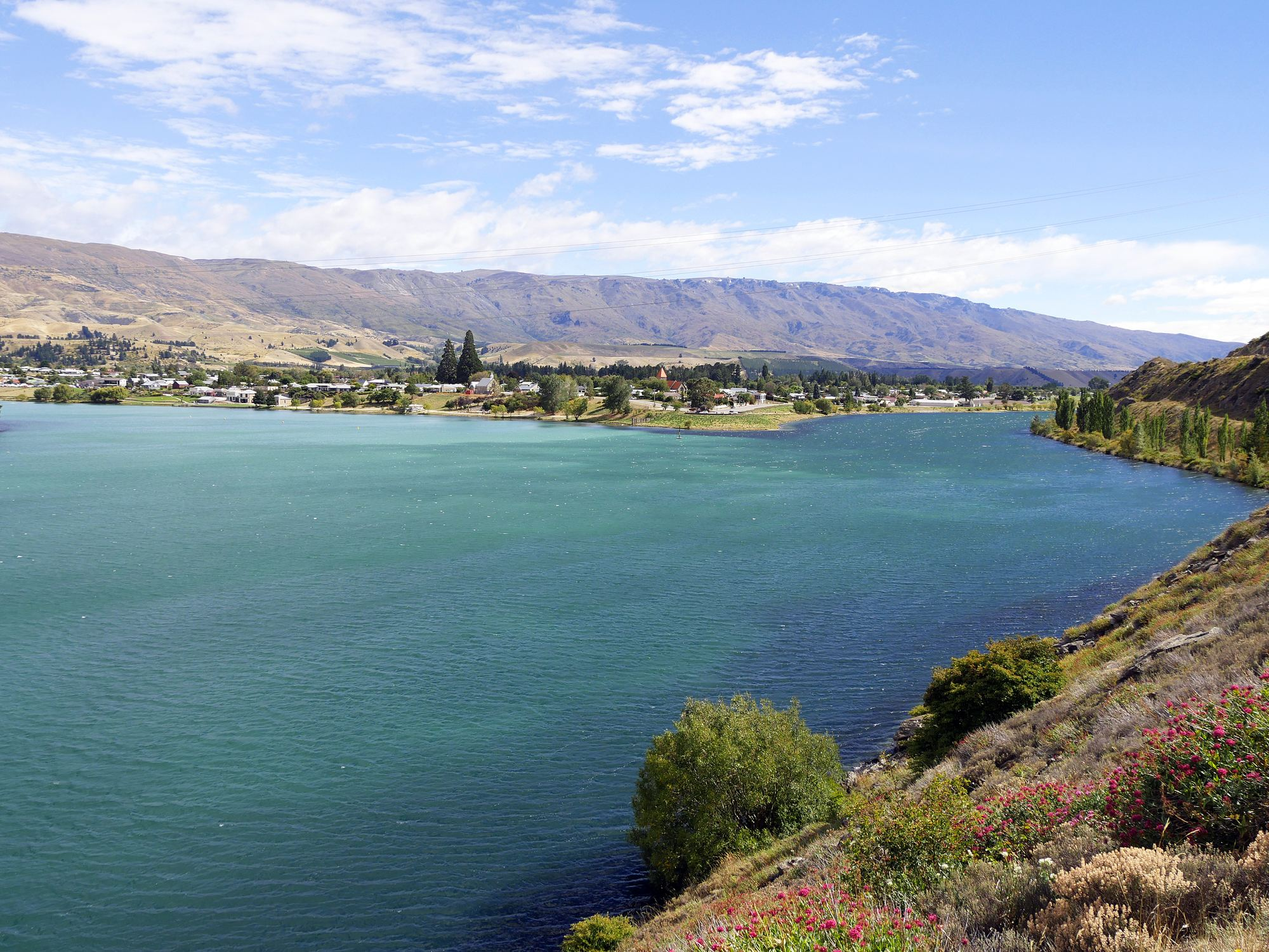
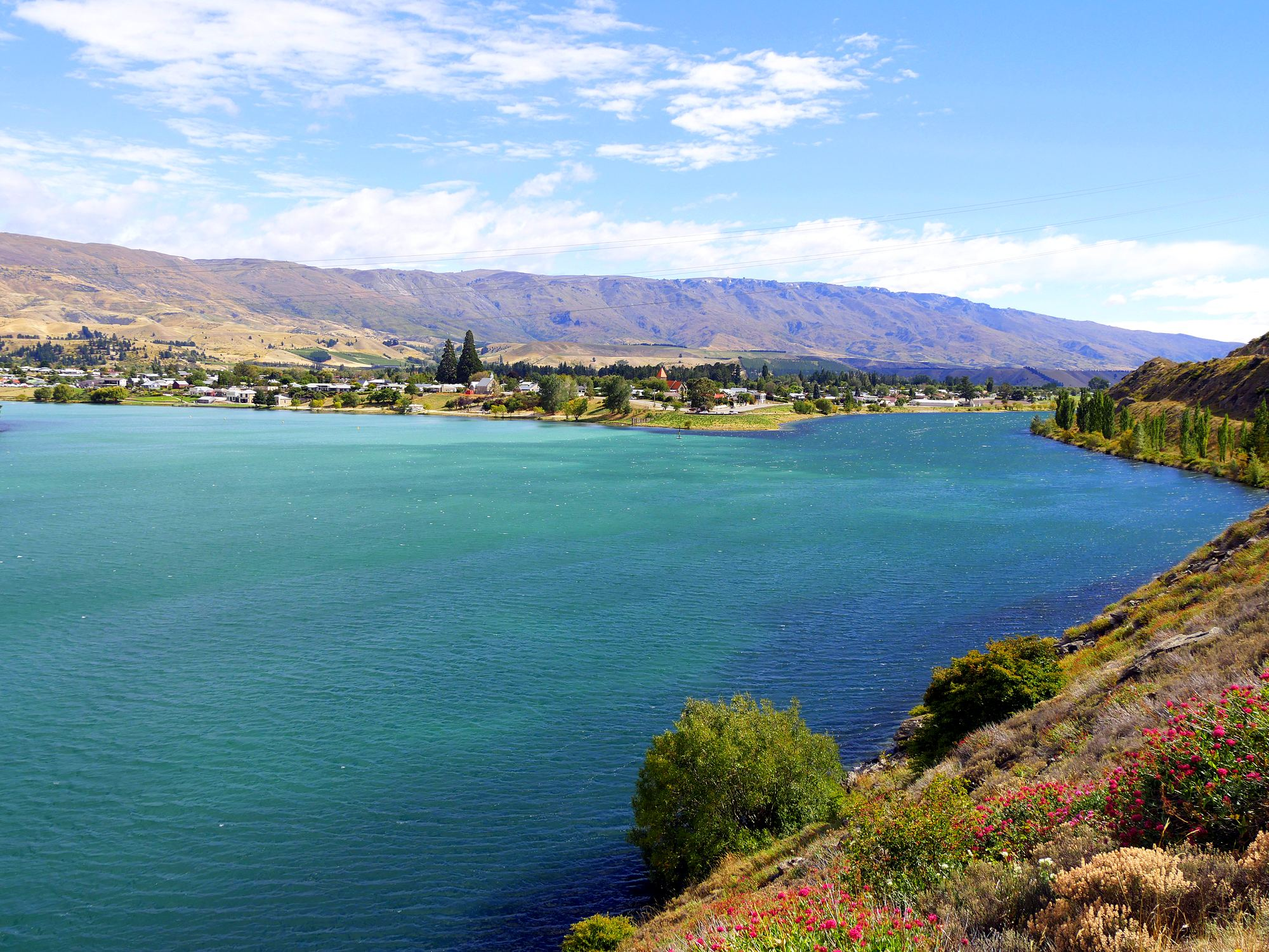
Boost hero photo colour and lighten its tint
- hero.jpg re-made from the original with +40% saturation, slight contrast
- Lighter overlay so the water's blue-green shows through
- Soft text shadow keeps the heading readable
- Credit notes the photo is colour adjusted (licence requires noting changes)

Claude-Session: https://claude.ai/code/session_01LSiUh8B7aKZp6XJuopUGAn

diff --git a/index.html b/index.html
@@ -66,13 +66,14 @@
       color: var(--white);
       background-color: var(--river-deep);
       background-image:
-        linear-gradient(180deg, rgba(18,59,62,.55) 0%, rgba(18,59,62,.15) 35%, rgba(18,59,62,.85) 100%),
+        linear-gradient(180deg, rgba(10,30,32,.5) 0%, rgba(10,30,32,.1) 28%, rgba(10,30,32,.3) 60%, rgba(10,30,32,.7) 100%), linear-gradient(90deg, rgba(10,30,32,.35) 0%, rgba(10,30,32,0) 60%),
         url("images/hero.jpg");
       background-size: cover;
       background-position: center;
       padding: 140px 0 72px;
     }
     .hero .wrap { width: 100%; }
+    .hero h1, .hero .lede { text-shadow: 0 1px 2px rgba(0,0,0,.35), 0 2px 18px rgba(0,0,0,.3); }
     .hero h1 { font-size: clamp(2.6rem, 6vw, 4.6rem); max-width: 14ch; }
     .hero .lede { font-size: clamp(1.15rem, 2.2vw, 1.45rem); max-width: 34ch; margin: 0 0 32px; opacity: .95; }
     .hero-badges { display: flex; flex-wrap: wrap; gap: 10px; margin-bottom: 32px; }
@@ -410,7 +411,7 @@
   <footer class="site-footer">
     <div class="wrap">
       <span>&copy; <span id="year">2026</span> Bannockburn Fishing and Boat Tours</span>
-      <span class="credit">Header photo: Ulrich Lange, <a href="https://commons.wikimedia.org/wiki/File:Lake_Dunstan_-_Kawarau_Arm_and_Dunstan_Arm.jpg" target="_blank" rel="noopener">Wikimedia Commons</a>, GNU Free Documentation License</span>
+      <span class="credit">Header photo: Ulrich Lange, <a href="https://commons.wikimedia.org/wiki/File:Lake_Dunstan_-_Kawarau_Arm_and_Dunstan_Arm.jpg" target="_blank" rel="noopener">Wikimedia Commons</a>, GNU Free Documentation License (colour adjusted)</span>
       <span>Trading as OMINZ Ltd</span>
     </div>
   </footer>
